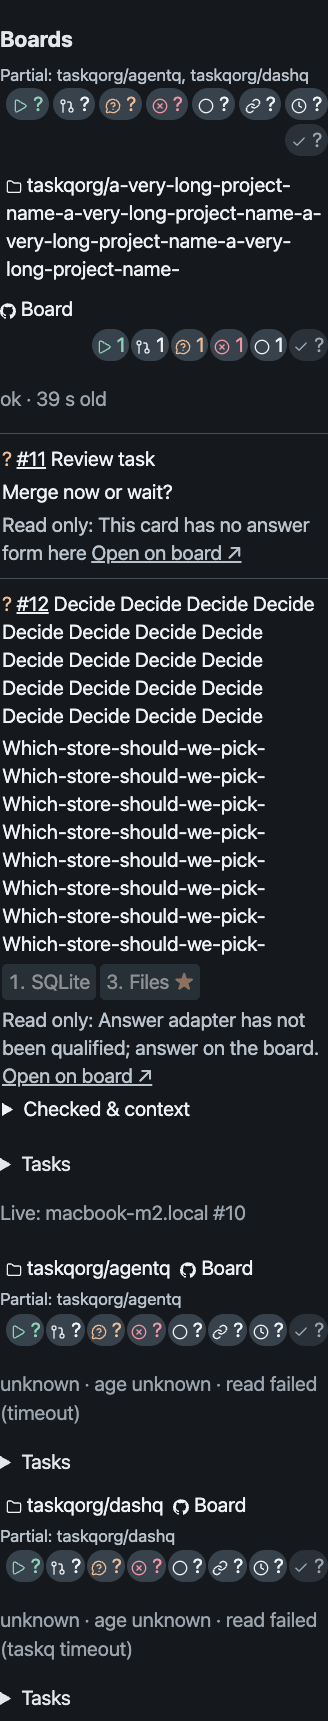
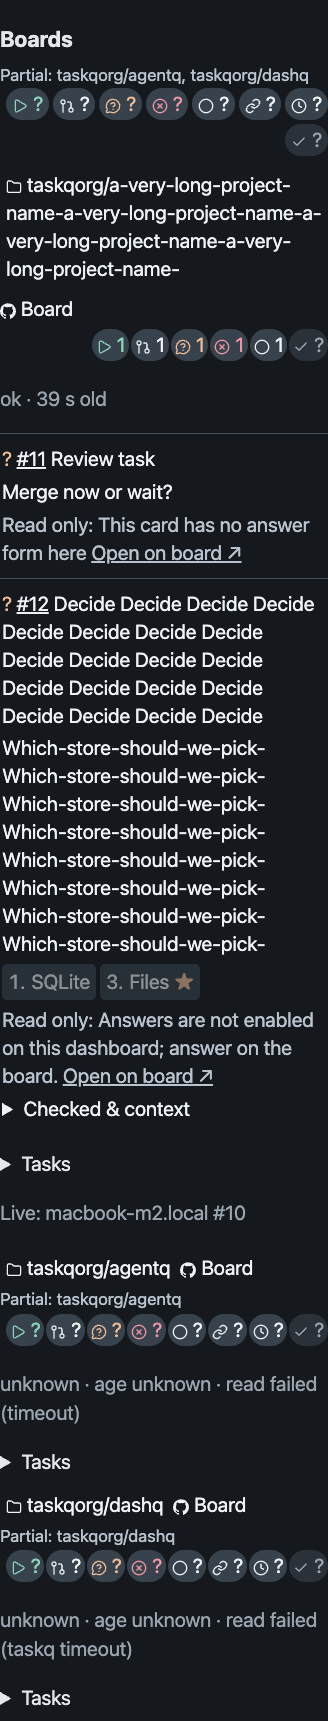
Answers: enable the shared card from the route and add the live board run
The Boards answer card now asks GET /answer once per board: a CSRF token
enables choice and free-text answers posted as the route's form, any
refusal keeps the card read-only with the server's reason. A lost reply
shows unknown and its retry resends the same op_id and payload.
Production stays read-only until a deployment configures `answer`.

tests/answer-live.cjs runs the #44 gate against a deployed dashboard and
an owner-authorized test task (guard, CSRF, revoked identity, stale,
double click, lost reply, readback, one board entry). It was rehearsed
against a stateful taskq stub only; the real board run is a follow-up.
The DashQ fixture question gains TaskQ's canonical `limits`, without
which the card's free-text check threw.

Task: https://github.com/taskqorg/dashq/issues/44

Claude-Session: https://claude.ai/code/session_012dDuuvUJFZiatvKUWX34iC

Changed region(s): [[0.0, 0.5851, 0.9756, 0.6467]]

diff --git a/fixture/page.html b/fixture/page.html
@@ -60,7 +60,7 @@
 <div class="m"><span class="k">RAM</span> <span class="v" id="ram-inst-win" data-n=""><span class="unknown" title="unknown: probe denied">—</span></span><span class="trend none">no trend yet · warmup, 3 real samples needed</span></div>
 <div class="m disks"><div class="disk"><span class="k">Disks</span> <span class="unknown" title="unknown: probe denied">—</span></div></div></article>
 </section>
-<section id="boards" data-boards="[{&quot;project&quot;:&quot;taskqorg/taskq&quot;,&quot;url&quot;:&quot;https://github.com/taskqorg/taskq/issues&quot;,&quot;source&quot;:{&quot;state&quot;:&quot;ok&quot;,&quot;at&quot;:1791875100,&quot;age_s&quot;:39,&quot;reason&quot;:null,&quot;incomplete&quot;:false},&quot;adapter&quot;:&quot;taskq-snapshot&quot;,&quot;in_work&quot;:2,&quot;waiting&quot;:1,&quot;ready&quot;:1,&quot;questions&quot;:[{&quot;id&quot;:&quot;https://github.com/taskqorg/taskq/issues/11&quot;,&quot;number&quot;:11,&quot;title&quot;:&quot;Review task&quot;,&quot;url&quot;:&quot;https://github.com/taskqorg/taskq/issues/11&quot;,&quot;state&quot;:&quot;review&quot;,&quot;revision&quot;:6139993901,&quot;parsed&quot;:false,&quot;done&quot;:null,&quot;text&quot;:&quot;Merge now or wait?&quot;,&quot;choices&quot;:[],&quot;recommended&quot;:null,&quot;free_text&quot;:false},{&quot;id&quot;:&quot;https://github.com/taskqorg/taskq/issues/12&quot;,&quot;number&quot;:12,&quot;title&quot;:&quot;Which option? &lt;b&gt;&quot;,&quot;url&quot;:&quot;https://github.com/taskqorg/taskq/issues/12&quot;,&quot;state&quot;:&quot;ask&quot;,&quot;revision&quot;:6139994000,&quot;parsed&quot;:true,&quot;done&quot;:&quot;checked&quot;,&quot;text&quot;:&quot;pick a store &lt;i&gt;&quot;,&quot;choices&quot;:[{&quot;k&quot;:1,&quot;text&quot;:&quot;SQLite&quot;,&quot;unavailable&quot;:null},{&quot;k&quot;:3,&quot;text&quot;:&quot;Files&quot;,&quot;unavailable&quot;:null}],&quot;recommended&quot;:3,&quot;free_text&quot;:true}],&quot;failed&quot;:[{&quot;number&quot;:14,&quot;title&quot;:&quot;Broken task&quot;,&quot;url&quot;:&quot;https://github.com/taskqorg/taskq/issues/14&quot;,&quot;reason&quot;:&quot;Reason: CI &lt;red&gt; on every runner&quot;}],&quot;attempts&quot;:[{&quot;host&quot;:&quot;macbook-m2.local&quot;,&quot;task&quot;:10,&quot;attempt&quot;:&quot;6139993856&quot;}],&quot;latest&quot;:&quot;4.2.0&quot;,&quot;counts&quot;:{&quot;closed&quot;:null,&quot;doing&quot;:1,&quot;review&quot;:1,&quot;ask&quot;:1,&quot;failed&quot;:1,&quot;ready&quot;:1,&quot;waiting&quot;:0,&quot;later&quot;:0},&quot;tasks&quot;:[{&quot;n&quot;:10,&quot;title&quot;:&quot;Doing task&quot;,&quot;url&quot;:&quot;https://github.com/taskqorg/taskq/issues/10&quot;,&quot;state&quot;:&quot;doing&quot;,&quot;revision&quot;:6139993856,&quot;question&quot;:null,&quot;card&quot;:null},{&quot;n&quot;:11,&quot;title&quot;:&quot;Review task&quot;,&quot;url&quot;:&quot;https://github.com/taskqorg/taskq/issues/11&quot;,&quot;state&quot;:&quot;review&quot;,&quot;revision&quot;:6139993901,&quot;question&quot;:{&quot;parsed&quot;:false,&quot;text&quot;:&quot;Merge now or wait?&quot;,&quot;done&quot;:null,&quot;problem&quot;:null,&quot;evidence&quot;:[],&quot;choices&quot;:[]},&quot;card&quot;:&quot;Merge now or wait?&quot;},{&quot;n&quot;:12,&quot;title&quot;:&quot;Which option? &lt;b&gt;&quot;,&quot;url&quot;:&quot;https://github.com/taskqorg/taskq/issues/12&quot;,&quot;state&quot;:&quot;ask&quot;,&quot;revision&quot;:6139994000,&quot;question&quot;:{&quot;parsed&quot;:true,&quot;text&quot;:&quot;Done: checked\nProblem: pick a store &lt;i&gt;\n1. SQLite\n3. Files ★&quot;,&quot;done&quot;:&quot;checked&quot;,&quot;problem&quot;:&quot;pick a store &lt;i&gt;&quot;,&quot;evidence&quot;:[],&quot;choices&quot;:[{&quot;id&quot;:1,&quot;text&quot;:&quot;SQLite&quot;,&quot;recommended&quot;:false,&quot;consequential&quot;:false},{&quot;id&quot;:3,&quot;text&quot;:&quot;Files&quot;,&quot;recommended&quot;:true,&quot;consequential&quot;:false}]},&quot;card&quot;:&quot;Done: checked\nProblem: pick a store &lt;i&gt;\n1. SQLite\n3. Files ★&quot;},{&quot;n&quot;:13,&quot;title&quot;:&quot;Ready task&quot;,&quot;url&quot;:&quot;https://github.com/taskqorg/taskq/issues/13&quot;,&quot;state&quot;:&quot;ready&quot;,&quot;revision&quot;:6139994100,&quot;question&quot;:null,&quot;card&quot;:null},{&quot;n&quot;:14,&quot;title&quot;:&quot;Broken task&quot;,&quot;url&quot;:&quot;https://github.com/taskqorg/taskq/issues/14&quot;,&quot;state&quot;:&quot;failed&quot;,&quot;revision&quot;:6139994200,&quot;question&quot;:null,&quot;card&quot;:null}]},{&quot;project&quot;:&quot;taskqorg/agentq&quot;,&quot;url&quot;:&quot;https://github.com/taskqorg/agentq/issues&quot;,&quot;source&quot;:{&quot;state&quot;:&quot;unknown&quot;,&quot;at&quot;:null,&quot;age_s&quot;:null,&quot;reason&quot;:&quot;read failed (timeout)&quot;,&quot;incomplete&quot;:false},&quot;adapter&quot;:&quot;taskq-labels&quot;,&quot;in_work&quot;:null,&quot;waiting&quot;:null,&quot;ready&quot;:null,&quot;questions&quot;:[],&quot;failed&quot;:[],&quot;attempts&quot;:[],&quot;latest&quot;:&quot;0.4.17&quot;,&quot;counts&quot;:{&quot;closed&quot;:null,&quot;doing&quot;:null,&quot;review&quot;:null,&quot;ask&quot;:null,&quot;failed&quot;:null,&quot;ready&quot;:null,&quot;waiting&quot;:null,&quot;later&quot;:null},&quot;tasks&quot;:[]},{&quot;project&quot;:&quot;taskqorg/dashq&quot;,&quot;url&quot;:&quot;https://github.com/taskqorg/dashq/issues&quot;,&quot;source&quot;:{&quot;state&quot;:&quot;unknown&quot;,&quot;at&quot;:null,&quot;age_s&quot;:null,&quot;reason&quot;:&quot;read failed (taskq timeout)&quot;,&quot;incomplete&quot;:false},&quot;adapter&quot;:&quot;taskq-snapshot&quot;,&quot;in_work&quot;:null,&quot;waiting&quot;:null,&quot;ready&quot;:null,&quot;questions&quot;:[],&quot;failed&quot;:[],&quot;attempts&quot;:[],&quot;latest&quot;:null,&quot;counts&quot;:{&quot;closed&quot;:null,&quot;doing&quot;:null,&quot;review&quot;:null,&quot;ask&quot;:null,&quot;failed&quot;:null,&quot;ready&quot;:null,&quot;waiting&quot;:null,&quot;later&quot;:null},&quot;tasks&quot;:[]}]"><h2>Boards</h2><div class="board-blocks"></div><div class="board-fallback">
+<section id="boards" data-boards="[{&quot;project&quot;:&quot;taskqorg/taskq&quot;,&quot;url&quot;:&quot;https://github.com/taskqorg/taskq/issues&quot;,&quot;source&quot;:{&quot;state&quot;:&quot;ok&quot;,&quot;at&quot;:1791875100,&quot;age_s&quot;:39,&quot;reason&quot;:null,&quot;incomplete&quot;:false},&quot;adapter&quot;:&quot;taskq-snapshot&quot;,&quot;in_work&quot;:2,&quot;waiting&quot;:1,&quot;ready&quot;:1,&quot;questions&quot;:[{&quot;id&quot;:&quot;https://github.com/taskqorg/taskq/issues/11&quot;,&quot;number&quot;:11,&quot;title&quot;:&quot;Review task&quot;,&quot;url&quot;:&quot;https://github.com/taskqorg/taskq/issues/11&quot;,&quot;state&quot;:&quot;review&quot;,&quot;revision&quot;:6139993901,&quot;parsed&quot;:false,&quot;done&quot;:null,&quot;text&quot;:&quot;Merge now or wait?&quot;,&quot;choices&quot;:[],&quot;recommended&quot;:null,&quot;free_text&quot;:false},{&quot;id&quot;:&quot;https://github.com/taskqorg/taskq/issues/12&quot;,&quot;number&quot;:12,&quot;title&quot;:&quot;Which option? &lt;b&gt;&quot;,&quot;url&quot;:&quot;https://github.com/taskqorg/taskq/issues/12&quot;,&quot;state&quot;:&quot;ask&quot;,&quot;revision&quot;:6139994000,&quot;parsed&quot;:true,&quot;done&quot;:&quot;checked&quot;,&quot;text&quot;:&quot;pick a store &lt;i&gt;&quot;,&quot;choices&quot;:[{&quot;k&quot;:1,&quot;text&quot;:&quot;SQLite&quot;,&quot;unavailable&quot;:null},{&quot;k&quot;:3,&quot;text&quot;:&quot;Files&quot;,&quot;unavailable&quot;:null}],&quot;recommended&quot;:3,&quot;free_text&quot;:true}],&quot;failed&quot;:[{&quot;number&quot;:14,&quot;title&quot;:&quot;Broken task&quot;,&quot;url&quot;:&quot;https://github.com/taskqorg/taskq/issues/14&quot;,&quot;reason&quot;:&quot;Reason: CI &lt;red&gt; on every runner&quot;}],&quot;attempts&quot;:[{&quot;host&quot;:&quot;macbook-m2.local&quot;,&quot;task&quot;:10,&quot;attempt&quot;:&quot;6139993856&quot;}],&quot;latest&quot;:&quot;4.2.0&quot;,&quot;counts&quot;:{&quot;closed&quot;:null,&quot;doing&quot;:1,&quot;review&quot;:1,&quot;ask&quot;:1,&quot;failed&quot;:1,&quot;ready&quot;:1,&quot;waiting&quot;:0,&quot;later&quot;:0},&quot;tasks&quot;:[{&quot;n&quot;:10,&quot;title&quot;:&quot;Doing task&quot;,&quot;url&quot;:&quot;https://github.com/taskqorg/taskq/issues/10&quot;,&quot;state&quot;:&quot;doing&quot;,&quot;revision&quot;:6139993856,&quot;question&quot;:null,&quot;card&quot;:null},{&quot;n&quot;:11,&quot;title&quot;:&quot;Review task&quot;,&quot;url&quot;:&quot;https://github.com/taskqorg/taskq/issues/11&quot;,&quot;state&quot;:&quot;review&quot;,&quot;revision&quot;:6139993901,&quot;question&quot;:{&quot;parsed&quot;:false,&quot;text&quot;:&quot;Merge now or wait?&quot;,&quot;done&quot;:null,&quot;problem&quot;:null,&quot;evidence&quot;:[],&quot;choices&quot;:[]},&quot;card&quot;:&quot;Merge now or wait?&quot;},{&quot;n&quot;:12,&quot;title&quot;:&quot;Which option? &lt;b&gt;&quot;,&quot;url&quot;:&quot;https://github.com/taskqorg/taskq/issues/12&quot;,&quot;state&quot;:&quot;ask&quot;,&quot;revision&quot;:6139994000,&quot;question&quot;:{&quot;parsed&quot;:true,&quot;text&quot;:&quot;Done: checked\nProblem: pick a store &lt;i&gt;\n1. SQLite\n3. Files ★&quot;,&quot;done&quot;:&quot;checked&quot;,&quot;problem&quot;:&quot;pick a store &lt;i&gt;&quot;,&quot;evidence&quot;:[],&quot;choices&quot;:[{&quot;id&quot;:1,&quot;text&quot;:&quot;SQLite&quot;,&quot;recommended&quot;:false,&quot;consequential&quot;:false},{&quot;id&quot;:3,&quot;text&quot;:&quot;Files&quot;,&quot;recommended&quot;:true,&quot;consequential&quot;:false}],&quot;limits&quot;:{&quot;lines&quot;:4,&quot;chars&quot;:240}},&quot;card&quot;:&quot;Done: checked\nProblem: pick a store &lt;i&gt;\n1. SQLite\n3. Files ★&quot;},{&quot;n&quot;:13,&quot;title&quot;:&quot;Ready task&quot;,&quot;url&quot;:&quot;https://github.com/taskqorg/taskq/issues/13&quot;,&quot;state&quot;:&quot;ready&quot;,&quot;revision&quot;:6139994100,&quot;question&quot;:null,&quot;card&quot;:null},{&quot;n&quot;:14,&quot;title&quot;:&quot;Broken task&quot;,&quot;url&quot;:&quot;https://github.com/taskqorg/taskq/issues/14&quot;,&quot;state&quot;:&quot;failed&quot;,&quot;revision&quot;:6139994200,&quot;question&quot;:null,&quot;card&quot;:null}]},{&quot;project&quot;:&quot;taskqorg/agentq&quot;,&quot;url&quot;:&quot;https://github.com/taskqorg/agentq/issues&quot;,&quot;source&quot;:{&quot;state&quot;:&quot;unknown&quot;,&quot;at&quot;:null,&quot;age_s&quot;:null,&quot;reason&quot;:&quot;read failed (timeout)&quot;,&quot;incomplete&quot;:false},&quot;adapter&quot;:&quot;taskq-labels&quot;,&quot;in_work&quot;:null,&quot;waiting&quot;:null,&quot;ready&quot;:null,&quot;questions&quot;:[],&quot;failed&quot;:[],&quot;attempts&quot;:[],&quot;latest&quot;:&quot;0.4.17&quot;,&quot;counts&quot;:{&quot;closed&quot;:null,&quot;doing&quot;:null,&quot;review&quot;:null,&quot;ask&quot;:null,&quot;failed&quot;:null,&quot;ready&quot;:null,&quot;waiting&quot;:null,&quot;later&quot;:null},&quot;tasks&quot;:[]},{&quot;project&quot;:&quot;taskqorg/dashq&quot;,&quot;url&quot;:&quot;https://github.com/taskqorg/dashq/issues&quot;,&quot;source&quot;:{&quot;state&quot;:&quot;unknown&quot;,&quot;at&quot;:null,&quot;age_s&quot;:null,&quot;reason&quot;:&quot;read failed (taskq timeout)&quot;,&quot;incomplete&quot;:false},&quot;adapter&quot;:&quot;taskq-snapshot&quot;,&quot;in_work&quot;:null,&quot;waiting&quot;:null,&quot;ready&quot;:null,&quot;questions&quot;:[],&quot;failed&quot;:[],&quot;attempts&quot;:[],&quot;latest&quot;:null,&quot;counts&quot;:{&quot;closed&quot;:null,&quot;doing&quot;:null,&quot;review&quot;:null,&quot;ask&quot;:null,&quot;failed&quot;:null,&quot;ready&quot;:null,&quot;waiting&quot;:null,&quot;later&quot;:null},&quot;tasks&quot;:[]}]"><h2>Boards</h2><div class="board-blocks"></div><div class="board-fallback">
 <p><a href="https://github.com/taskqorg/taskq/issues">taskqorg/taskq</a> · Shared TaskQ blocks require JavaScript.</p>
 <p><a href="https://github.com/taskqorg/taskq/issues/11">#11</a> Review task · Merge now or wait?</p>
 <p><a href="https://github.com/taskqorg/taskq/issues/12">#12</a> Which option? &lt;b&gt; · pick a store &lt;i&gt;</p>

diff --git a/assets/boards.js b/assets/boards.js
@@ -6,6 +6,29 @@ const questionId = (name, n) => boardId(name) + '-q-' + n;
 // DashQ board rows -> TaskQ project model; a failed or incomplete read is partial, so counters read `?`.
 const boardProjects = boards => boards.map(b => ({id: b.project, name: b.project, board: {kind: 'github', url: b.url},
   complete: b.source.state === 'ok' && !b.source.incomplete && Array.isArray(b.tasks), closed: b.counts.closed, tasks: b.tasks || []}));
+// answers.md Route (#41): the server decides per board and account. GET /answer?board= returns a CSRF token when
+// this account may answer there, else the reason (503 while the deployment has no `answer` config). Read once per page.
+const answerAccess = new Map();
+const answerCapability = board => {
+  const a = answerAccess.get(board);
+  return a && a.csrf ? {answer: true} : {answer: false, reason: a ? a.reason : 'Checking answer access…'};
+};
+function answerAccessLoad(board) {
+  if (answerAccess.has(board)) return;
+  answerAccess.set(board, {reason: 'Checking answer access…'});
+  fetch('/answer?board=' + encodeURIComponent(board), {credentials: 'same-origin'})
+    .then(r => r.json().then(v => r.ok && v.csrf ? {csrf: v.csrf} : {reason: (v.reason || 'Answers unavailable') + '; answer on the board.'}))
+    .catch(e => ({reason: 'Answer access unknown (' + e.message + '); answer on the board.'}))
+    .then(a => { answerAccess.set(board, a); for (const c of boardCards.values()) if (c.board === board) c.widget.update(c.rows); });
+}
+// One TaskQ operation as the route's form; the receipt's `outcome` is the card state. A lost or unreadable reply
+// rejects, so the card shows unknown and its retry resends the same op_id and payload.
+async function answerSend(board, op) {
+  const f = new URLSearchParams({board, csrf: answerAccess.get(board).csrf, task: op.task, revision: op.revision, op_id: op.id});
+  if (op.choice != null) f.set('choice', op.choice); else f.set('text', op.text);
+  const v = await (await fetch('/answer', {method: 'POST', body: f, credentials: 'same-origin'})).json();
+  return {state: v.outcome, reason: v.reason, next: v.next};
+}
 function controlKey(e) {
   const d = e.dataset;
   if (d.tqp) return d.tqp + (d.state ? '-' + d.state : '');
@@ -63,17 +86,18 @@ function renderBoards() {
         if (!card) {
           const el = document.createElement('div');
           el.id = id;
-          card = {el, widget: TaskqAnswerCard.mount(el, {
-            capability: () => ({answer: false, reason: card.source.state === 'ok'
-              ? 'Answer adapter has not been qualified; answer on the board.'
-              : 'Board observation ' + card.source.state + ': ' + (card.source.reason || 'current revision unavailable') + '; answer on the board.'}),
-            send: () => Promise.reject(new Error('Answering is disabled'))
+          card = {el, board: p.id, widget: TaskqAnswerCard.mount(el, {
+            capability: board => card.source.state === 'ok' && !card.source.incomplete ? answerCapability(board)
+              : {answer: false, reason: 'Board observation ' + card.source.state + ': ' + (card.source.reason || 'current revision unavailable') + '; answer on the board.'},
+            send: answerSend
           })};
           boardCards.set(id, card);
         }
         card.source = b.source;
         wrap.append(card.el);
-        card.widget.update([{board: p.id, row}]);
+        card.rows = [{board: p.id, row}];
+        card.widget.update(card.rows);
+        answerAccessLoad(p.id);
       }
       if (boardFilter && (!boardFilter.project || boardFilter.project === p.id) && row.state !== boardFilter.state) continue;
       const el = document.createElement('div');

diff --git a/docs/design/answers.md b/docs/design/answers.md
@@ -43,6 +43,14 @@ Before enabling production writes, qualify an authorized test task on the real b
 
 The browser loads the unchanged answer-card and project-blocks assets from the same-origin app/style responses. `assets/taskq/provenance.json` records the owner-approved source commit and SHA-256 per file, not a published release. `boards.tasks` preserves canonical row/question identity, choices, evidence and limits. Label-only rows have no parsed question and no answer capability. Source freshness remains beside each block. Navigation counters filter observed rows; Closed remains unknown.
 
-Attention opens the single Boards card. The board container and component instances survive page refresh; the canonical component owns revision-bound drafts. This consumer always supplies `answer: false` until #44 qualifies the real adapter; no tray management capability or answer request is added. Static `--snapshot` remains script-free with source and issue links; browser evidence is required for the shared UI.
+Attention opens the single Boards card. The board container and component instances survive page refresh; the canonical component owns revision-bound drafts. No tray management capability is added. Static `--snapshot` remains script-free with source and issue links; browser evidence is required for the shared UI.
 
-Checks: `node tests/boards.cjs` (in `cargo test`) replays the shared card fixtures, verifies the pinned checksums and the counter order, zero hiding, unknown `?`, quiet Closed and partial aggregate. `tests/boards-browser.cjs` (Chrome + Playwright, release/visual check) asserts the same counters in the page, provider icon contrast, Attention navigation, counter filtering and three refreshes keeping focus, scroll, disclosures and card instances; its [screenshots](evidence/boards/) cover 1024/360 px at 16/20 px in both themes and a narrow long-text fixture.
+## Browser answers and live qualification (#44)
+
+The card's capability comes from the route, never from the page: on the first question of a board the page reads `GET /answer?board=` once. A CSRF token enables answering; any refusal (503 without `answer` config, 401, 403, 404, unreadable reply) keeps the card read-only with that reason plus "answer on the board". The card's operation becomes the route's form (`board`, `csrf`, `task`, `revision`, `op_id`, `choice` or `text`) and the receipt's `outcome` its state. A reply that is not a receipt (lost, proxy error page) shows `unknown`; Check delivery resends the same `op_id` and payload. Counters change only with the next snapshot.
+
+So configuring `answer` on a deployment turns the browser write path on; that config stays off production until the live run below passes. Enable: put the dedicated token file (0600), `answer.boards` and the subjects' `dashq answerer WORKSPACE SUBJECT on` in place, then restart. Rollback: remove `answer` from the config and restart (cards turn read-only at once); `dashq answerer ... off` revokes one account. Neither touches stored receipts or the board.
+
+Live run (owner-authorized test task in `ask`, run on the host as its administrator): `tests/answer-live.cjs` drives the loopback listener with `X-Dashq-Subject` and checks, before any write, missing subject 401, unmapped subject 403, cross-site Origin 403, wrong CSRF 403, unconfigured board 404, another workspace's board refused, revoked identity 403 (`dashq answerer` off, then on) and stale revision 409; then a double click (same op ID twice at once: one write), a lost-reply retry (same receipt), the same op ID with another payload refused, board readback past the answered revision and, with `GH=1`, exactly one board entry carrying the op ID. Run it once with `CHOICE=K` and once with `TEXT=..` on a re-asked question; it prints one JSON record (versions, revisions, receipts, checks) for the task. Still by hand on the deployment: a read-only token file (answer refused or unknown, no entry), Origin/CSRF through the real proxy, 16/20 px draft and focus in both themes, and unrelated tasks unchanged. Rehearsed against a stateful taskq stub (both paths: every check passes, one taskq write each); the real board run is pending.
+
+Checks: `node tests/boards.cjs` (in `cargo test`) replays the shared card fixtures, verifies the pinned checksums and the counter order, zero hiding, unknown `?`, quiet Closed and partial aggregate. `tests/boards-browser.cjs` (Chrome + Playwright, release/visual check) asserts the same counters in the page, provider icon contrast, Attention navigation, counter filtering, three refreshes keeping focus, scroll, disclosures and card instances, and the answer route against a recorded stub (choice, free text, lost reply retried with the same operation, stale keeping the draft); its [screenshots](evidence/boards/) cover 1024/360 px at 16/20 px in both themes and a narrow long-text fixture.
